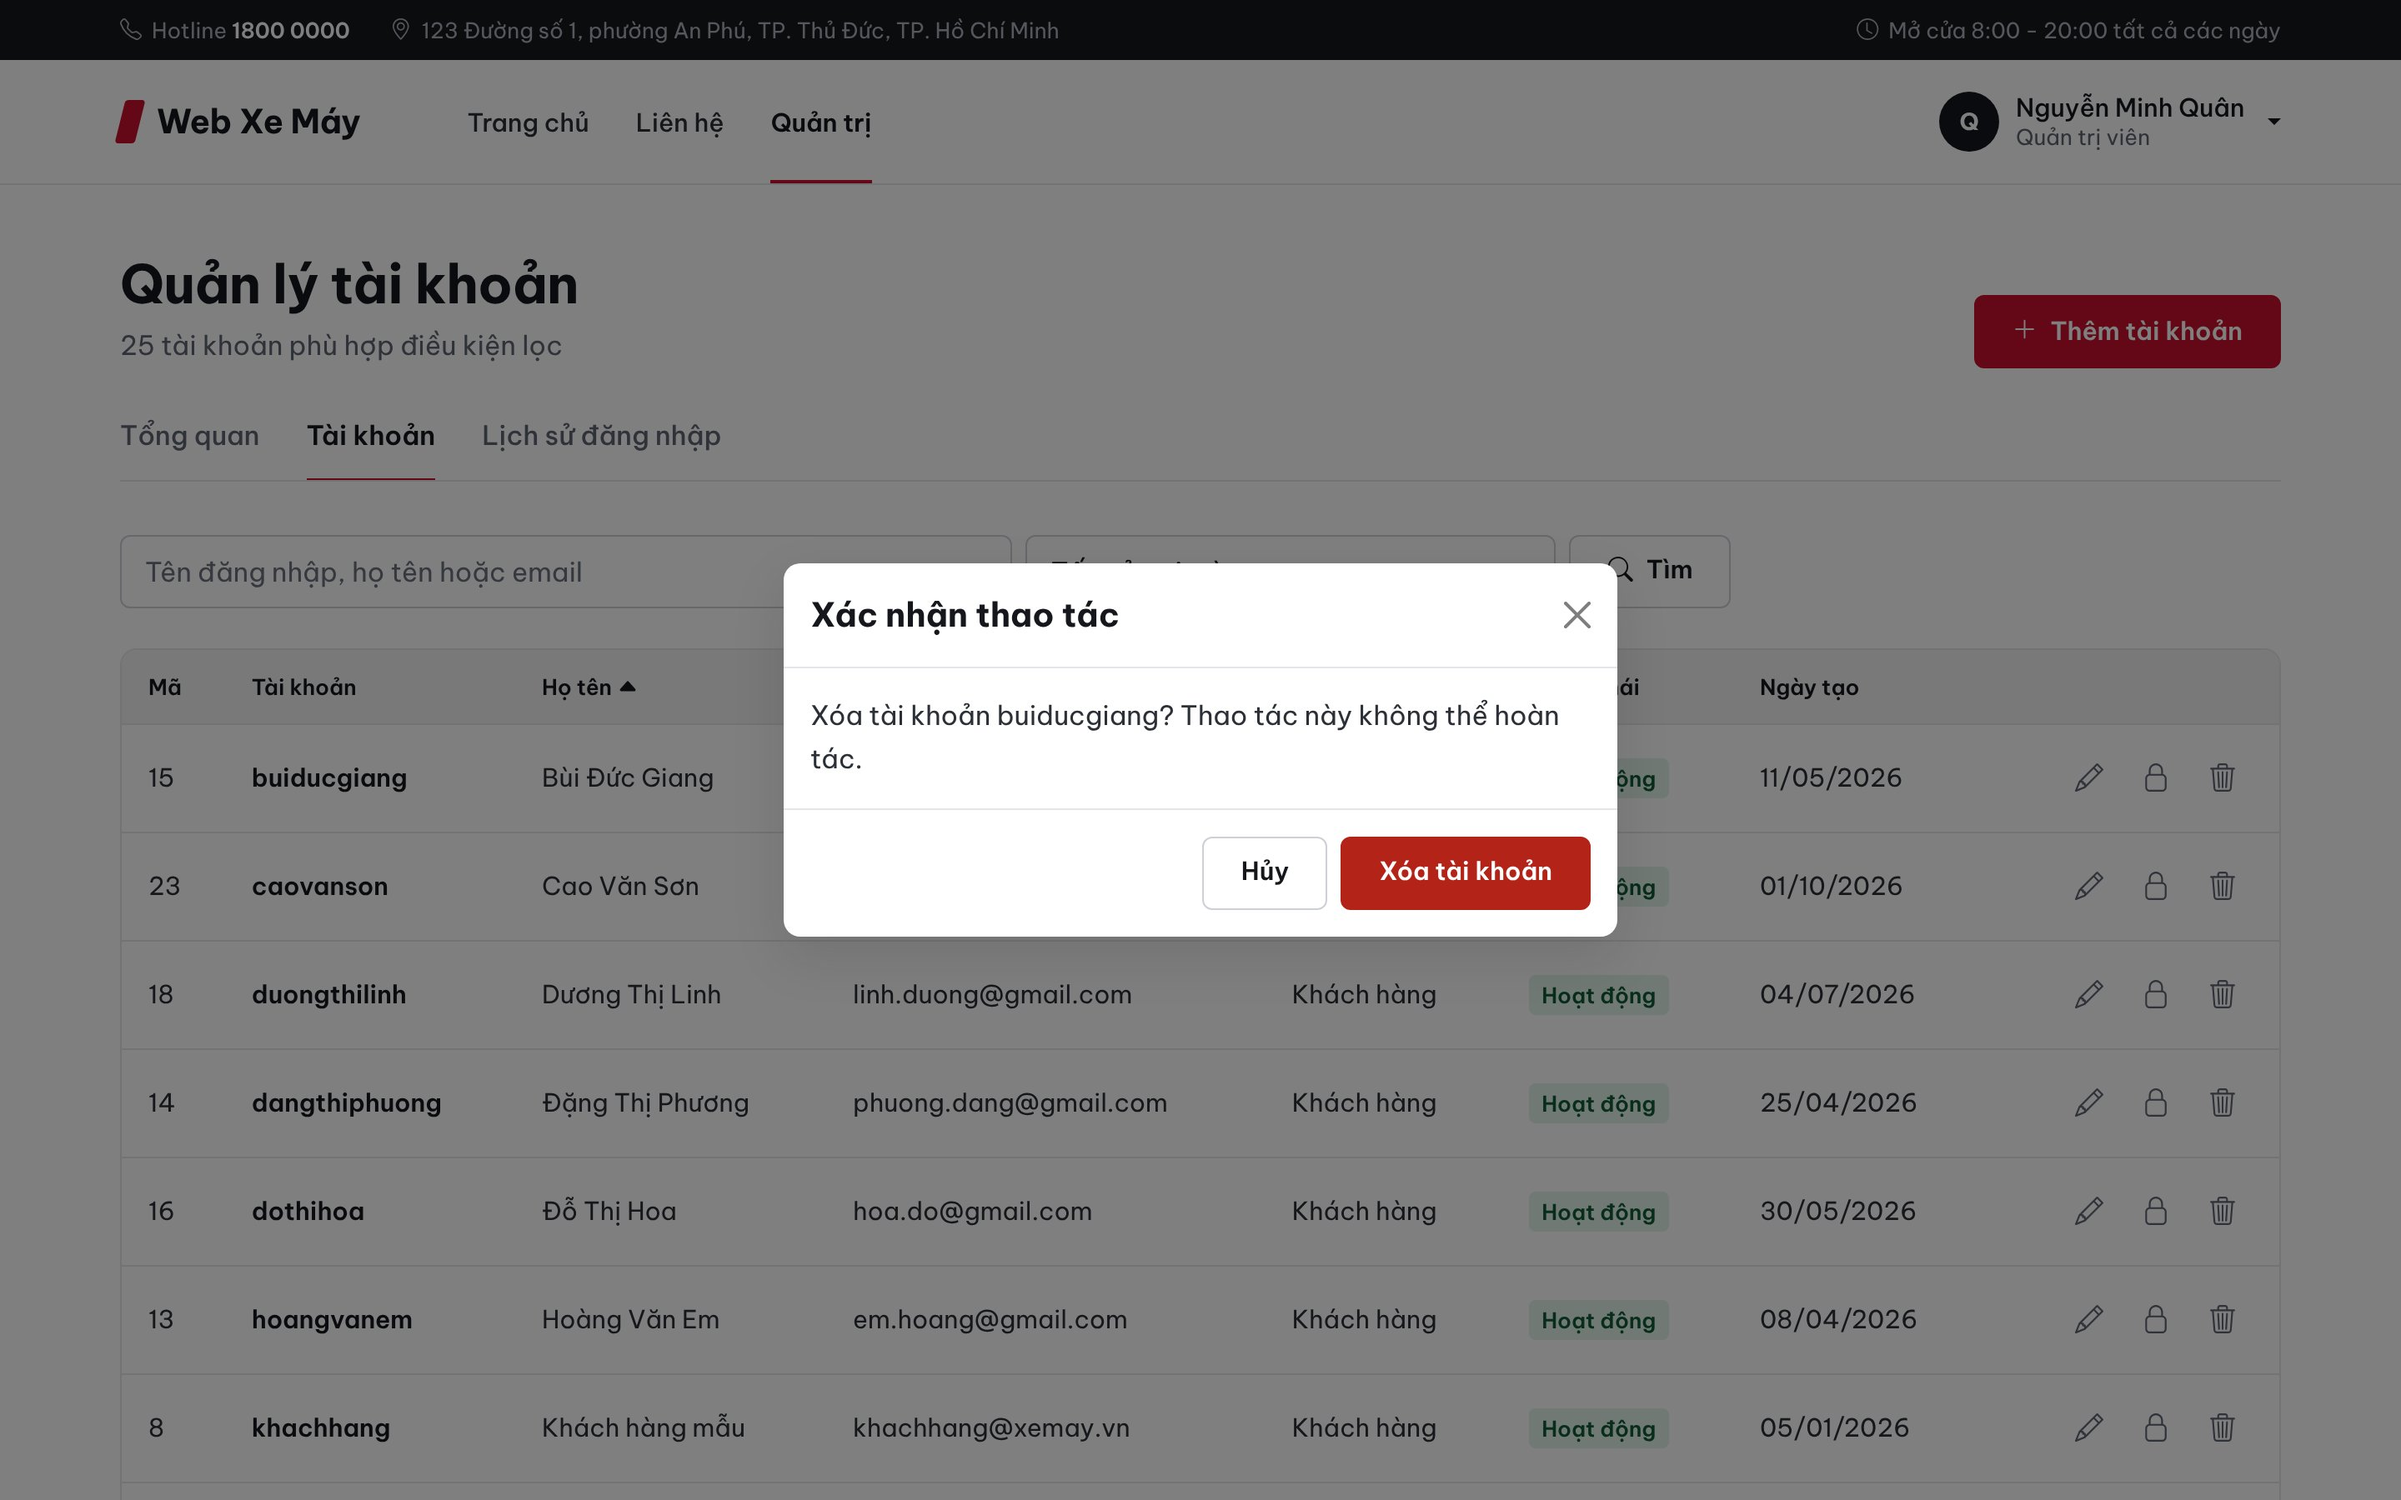
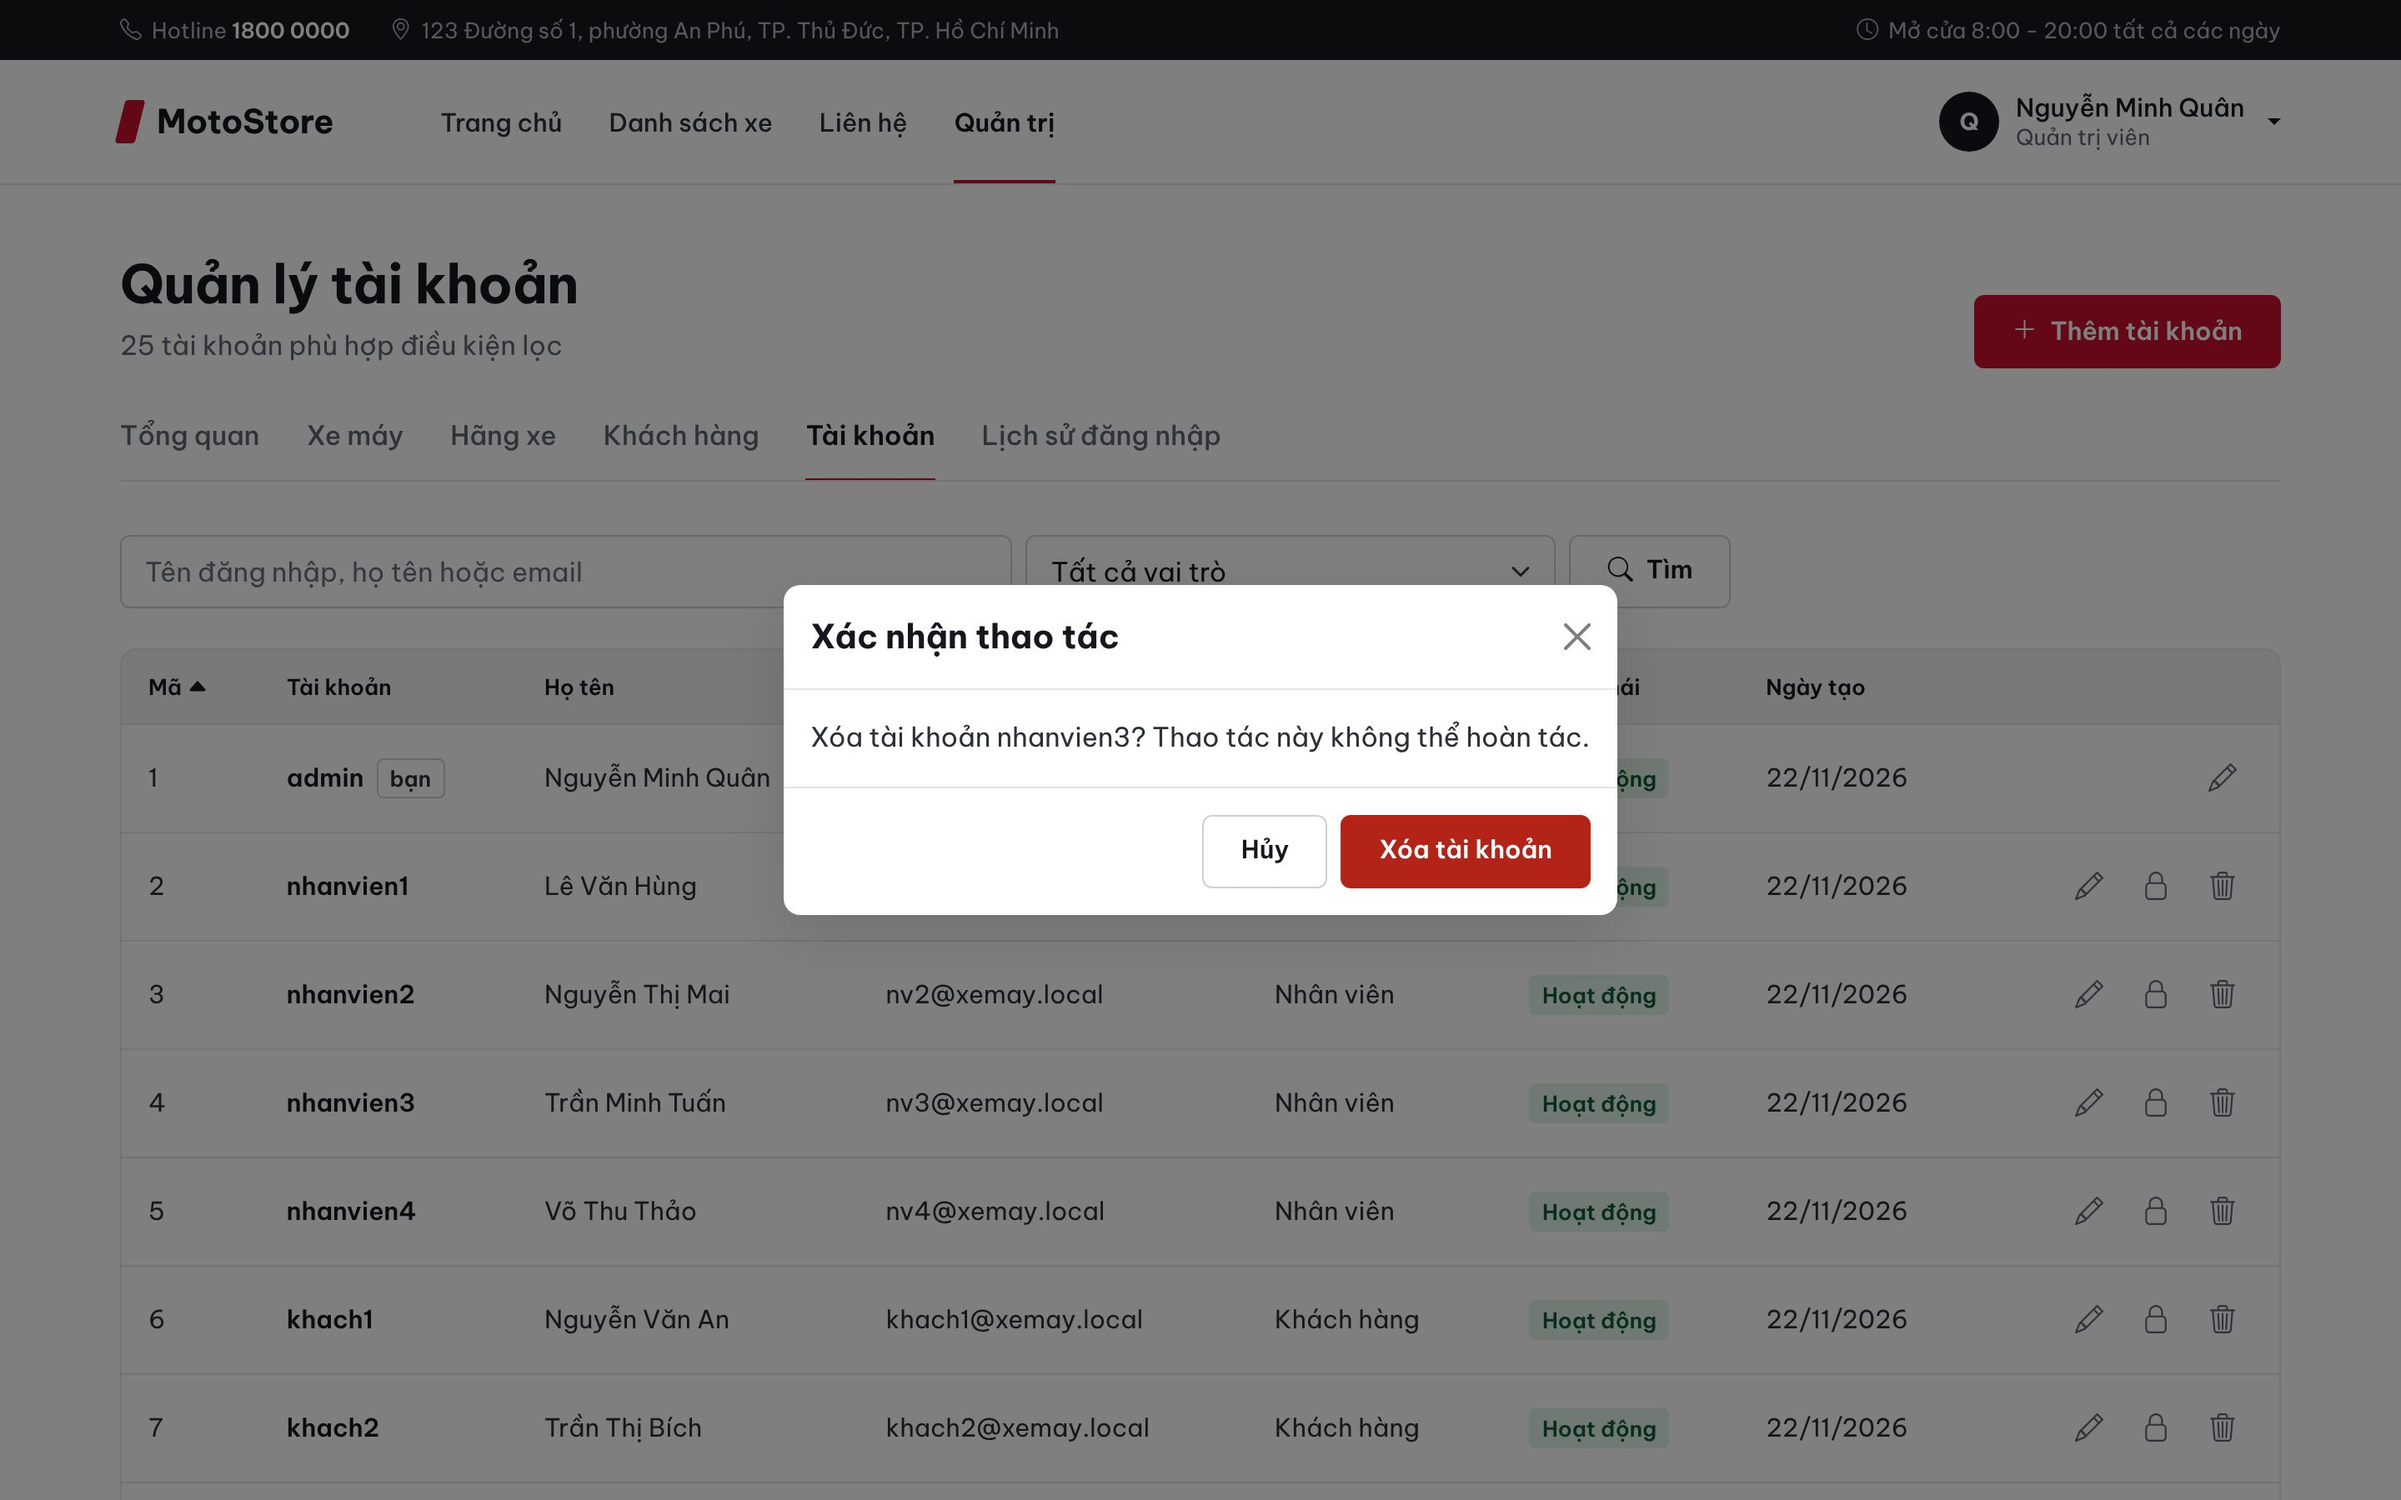
Cập nhật tài liệu và ảnh chụp màn hình sau tích hợp lần 2
- bao-cao-tich-hop.md: thêm lần 2 (đã nhận gì, phân công sau lần 2, 13 lỗi phát hiện khi ghép, quyết định khi ghép), việc còn lại
- thiet-ke-dong-thoi-va-mang.md: đặt hàng khóa giỏ trước, khóa xe sau; lỗi treo do khóa khoảng chỉ mục trên SQL Server
- kiem-thu.md: 73 bài tự động; kịch bản giỏ hàng, đặt hàng, hai khách cùng đặt xe cuối; bảng GD01-GD18 của thành viên 2 đã chạy
- huong-dan-tich-hop.md: phần đã có của giỏ hàng, đặt hàng; cách làm xác nhận, hủy đơn, hóa đơn khi kho đã trừ lúc đặt
- README, quy chuẩn giao diện: tên MotoStore, trạng thái từng thành viên, chức năng mới
- Chụp lại 23 ảnh (tên cửa hàng, header mới) và thêm 7 ảnh trang khách, giỏ hàng, đặt hàng

diff --git a/docs/thiet-ke-dong-thoi-va-mang.md b/docs/thiet-ke-dong-thoi-va-mang.md
@@ -71,7 +71,8 @@ nhìn log là biết đoạn mã nào đang chạy trên luồng nào.
 
 | Tài nguyên dùng chung | Ai cùng truy cập | Nếu không đồng bộ | Cách đồng bộ |
 |---|---|---|---|
-| Cột `SoLuong` của bảng `XE_MAY` | Luồng Tomcat (đặt hàng, nhập kho trên web), luồng `kho-client-N` (nhập/xuất kho), procedure `sp_XacNhanDonHang` | Mất cập nhật, bán vượt số xe đang có | **Khóa bi quan JPA** `PESSIMISTIC_WRITE` (`TonKhoService`) |
+| Cột `SoLuong` của bảng `XE_MAY` | Luồng Tomcat (khách đặt hàng, nhân viên nhập kho trên web), luồng `kho-client-N` (nhập/xuất kho) | Mất cập nhật, bán vượt số xe đang có | **Khóa bi quan JPA** `PESSIMISTIC_WRITE` (`TonKhoService`) |
+| Giỏ hàng của một khách (`GIO_HANG`, `CHI_TIET_GIO_HANG`) | Nhiều tab, nhiều lần bấm của cùng một khách: thêm, sửa, xóa, đặt hàng | Bấm "Đặt hàng" hai lần thành hai đơn, trừ kho hai lần | Khóa dòng giỏ trước mọi thao tác (`GioHangRepository.khoaTheoKhachHang`), mục 3.5 |
 | Cột `SoLuong` khi nhân viên sửa thông tin xe | Luồng sửa xe và luồng bán xe | Câu UPDATE của form sửa ghi lại số tồn cũ, xóa mất lần bán xen giữa | Form sửa không nhận số lượng + `@DynamicUpdate`: UPDATE chỉ ghi cột đã đổi (mục 3.4) |
 | Số điện thoại khách hàng | Hai người đăng ký, hoặc nhân viên nhập khách, cùng một số điện thoại | Hai hồ sơ trùng số | Chỉ mục `UNIQUE` của `KHACH_HANG.SoDienThoai` + bắt `DataIntegrityViolationException`; tài khoản và hồ sơ cùng một giao dịch |
 | Bộ đếm đăng nhập sai (bộ nhớ) | Luồng Tomcat và luồng Socket cùng ghi nhận lần sai | Mất lần đếm, kẻ dò mật khẩu thử được nhiều hơn 5 lần | `ConcurrentHashMap.compute` - đọc, tính, ghi là **nguyên tử** (`BoDemDangNhapSai`) |
@@ -118,9 +119,10 @@ thứ tự thì vòng chờ này không thể xảy ra. Bài kiểm thử `xuatN
 
 **Chốt chặn cuối:** cột `SoLuong` có ràng buộc `CK_XEMAY_SOLUONG CHECK(SoLuong >= 0)` trong script của nhóm.
 
-**Procedure của nhóm cũng an toàn khi chạy song song:** `sp_XacNhanDonHang` đọc các dòng `XE_MAY` của đơn bằng
-`WITH(UPDLOCK,HOLDLOCK)`, cùng loại khóa mà Hibernate dùng ở trên, nên một lần trừ kho từ Java và một lần xác nhận đơn
-bằng procedure trên cùng một xe sẽ chờ nhau chứ không chạy xen kẽ.
+**Procedure xác nhận đơn không trừ kho nữa:** kho đã bị trừ ngay lúc khách đặt hàng (mục 3.5). Bản gốc của
+`sp_XacNhanDonHang` trừ kho khi xác nhận, nếu giữ nguyên thì đơn đặt trên web bị trừ kho hai lần; phần trừ kho trong
+procedure đã được đặt trong chú thích (đánh dấu `[Tich hop]`). Procedure vẫn khóa dòng đơn hàng bằng `WITH(UPDLOCK,HOLDLOCK)`:
+hai nhân viên cùng xác nhận một đơn thì người sau nhận lỗi "Đơn hàng không ở trạng thái chờ xác nhận.", không có hai hóa đơn.
 
 ### 3.4 Sửa thông tin xe trong lúc có người mua (lỗi phát hiện khi tích hợp)
 
@@ -143,7 +145,58 @@ nhân viên đổi giá xe là `update XE_MAY set GiaBan=? where MaXe=?`, không
 `suaXeTrongLucCoNguoiMua` tái hiện đúng trình tự trên: có `@DynamicUpdate` thì còn 49 (đúng), bỏ đi thì còn 50 (sai).
 Muốn tăng tồn kho thì dùng nút **Nhập kho** trên trang sửa xe, đi qua `TonKhoService` như mọi thao tác kho khác.
 
-### 3.5 Tác vụ nền và tác vụ định kỳ
+### 3.5 Đặt hàng: khóa giỏ trước, khóa xe sau
+
+`DatHangService.datHang` làm mọi bước trong **một** giao dịch: khóa dòng giỏ của khách, khóa và trừ kho từng xe
+(`TonKhoService.xuatKhoNhieuXe`, mã xe tăng dần), tạo `DON_HANG` và `CHI_TIET_DON_HANG` theo giá bán hiện tại, làm trống giỏ.
+Thiếu hàng ở bất kỳ xe nào thì cả giao dịch bị hủy: không tạo đơn, không trừ xe nào, giỏ của khách còn nguyên.
+Đơn mới ở trạng thái `CHO_XAC_NHAN` và đã giữ xe cho khách (kho đã trừ); hủy đơn thì trả lại bằng `TonKhoService.nhapKho`.
+
+Hai khách cùng đặt chiếc xe cuối cùng (kiểm thử `haiKhachCungDatChiecXeCuoi`, và chạy thật trên giao diện, ảnh `28-hai-khach-cung-dat.jpg`):
+
+```mermaid
+sequenceDiagram
+    participant A as Khách A bấm "Đặt hàng"
+    participant G as Dòng giỏ của A, của B
+    participant X as Dòng xe Monster (còn 2)
+    participant B as Khách B bấm "Đặt hàng"
+    A->>G: khóa giỏ của A
+    B->>G: khóa giỏ của B (giỏ khác nhau, không phải chờ)
+    A->>X: khóa dòng xe, đọc 2 >= 2
+    B->>X: khóa dòng xe
+    Note over B: phải CHỜ vì A đang giữ khóa
+    A->>A: trừ kho còn 0, tạo đơn, làm trống giỏ, COMMIT
+    X-->>B: được khóa, đọc số MỚI: 0
+    B->>B: 0 < 2, HetHangException, ROLLBACK: không có đơn, giỏ của B còn nguyên
+```
+
+Một khách bấm "Đặt hàng" hai lần liên tiếp (hoặc đặt ở hai tab): lần sau chờ khóa dòng giỏ, đến lượt thì giỏ đã trống, nhận
+"Giỏ hàng đang trống." (kiểm thử `motKhachDatHaiLanCungLuc`: một đơn, kho chỉ trừ một lần).
+
+**Thứ tự khóa chung để không deadlock:** giao dịch nào cần cả giỏ và kho thì khóa giỏ trước, các xe sau (theo mã tăng dần).
+Thêm, sửa, xóa trong giỏ chỉ khóa giỏ; nhập/xuất kho từ client và trang quản trị chỉ khóa xe. Không giao dịch nào giữ khóa xe
+rồi mới xin khóa giỏ, nên không thể có vòng chờ.
+
+**Lỗi treo phát hiện khi chạy trên SQL Server:** khách mới (chưa có dòng `GIO_HANG`) bấm "Thêm vào giỏ" lần đầu thì trang
+quay mãi không xong. Bản đầu tiên khóa giỏ trước (`SELECT ... WITH (UPDLOCK, HOLDLOCK, ROWLOCK) WHERE MaKhachHang = ?`), không
+thấy dòng nào thì tạo giỏ trong một giao dịch riêng (`REQUIRES_NEW`). Với `HOLDLOCK`, khi dòng chưa tồn tại SQL Server khóa cả
+**khoảng** chỉ mục nơi dòng đó sẽ nằm, nên lệnh INSERT của giao dịch riêng phải chờ giao dịch ngoài, trong khi giao dịch ngoài
+lại đang chờ giao dịch riêng chạy xong. SQL Server không nhận ra đây là deadlock vì một đầu của vòng chờ nằm trong Java.
+Lúc treo, `sys.dm_tran_locks` cho thấy đúng như vậy:
+
+```
+request_session_id resource_type request_mode request_status
+60                 KEY           RangeS-U     GRANT     -- giao dịch ngoài: khóa khoảng chỉ mục
+59                 KEY           RangeI-N     WAIT      -- giao dịch riêng: INSERT GIO_HANG đang chờ
+```
+
+Kiểm thử trên H2 không bắt được lỗi này vì H2 không khóa khoảng chỉ mục. Cách sửa (`GioHangService.khoaGio`): kiểm tra giỏ
+bằng câu đọc thường (không khóa), chưa có thì tạo giỏ trong giao dịch riêng **trước**, sau đó mới khóa dòng giỏ đã tồn tại.
+Hai yêu cầu cùng tạo giỏ cho một khách thì ràng buộc `UNIQUE` của `GIO_HANG.MaKhachHang` chặn lần chèn thứ hai
+(log có dòng `Violation of UNIQUE KEY constraint` của Hibernate), yêu cầu đó dùng luôn giỏ vừa tạo. Sau khi sửa: khách mới thêm
+xe lần đầu mất khoảng 0,3 giây; ba tab cùng thêm xe lần đầu tạo đúng một giỏ có ba dòng; 73/73 bài kiểm thử đạt trên SQL Server 2025.
+
+### 3.6 Tác vụ nền và tác vụ định kỳ
 
 | Tác vụ | Cơ chế | Lịch chạy | Lớp |
 |---|---|---|---|

diff --git a/docs/quy-chuan-giao-dien.md b/docs/quy-chuan-giao-dien.md
@@ -1,15 +1,19 @@
-# Quy chuẩn giao diện - Web Xe Máy
+# Quy chuẩn giao diện - MotoStore
 
 Tài liệu này là **quy chuẩn giao diện duy nhất** của cả nhóm. Thành viên nào làm trang mới cũng đọc tài liệu này trước.
 Các giá trị gốc bên dưới (màu, chữ, bo góc, khoảng cách) đã được cài sẵn trong
 `web/src/main/resources/static/css/theme.css` dưới dạng biến CSS và lớp Bootstrap, nên khi làm trang chỉ cần
 **dùng lớp có sẵn, không tự đặt màu hay font mới**.
 
-> Tên cửa hàng ("Web Xe Máy"), hotline, địa chỉ đổi ở một chỗ duy nhất (hotline, địa chỉ hiện là dữ liệu tạm): `web/src/main/resources/messages.properties`.
+> Tên cửa hàng ("MotoStore"), hotline, địa chỉ đổi ở một chỗ duy nhất (hotline, địa chỉ hiện là dữ liệu tạm): `web/src/main/resources/messages.properties`.
+>
+> Các trang của khách (trang chủ, danh sách xe, chi tiết xe, giỏ hàng) do thành viên 2 làm trên cùng nền này, thêm các lớp riêng
+> trong `static/css/motostore-frontend.css` (thẻ xe `.the-xe-khach`, khung ảnh `.anh-xe-khach`, khung chưa có ảnh `.anh-trong`,
+> các lớp `moto-*`). File này nạp sau `theme.css` trong bố cục chung; trang mới cho khách dùng lại các lớp đó.
 
 ## Tổng quan
 
-Web Xe Máy là website của một đại lý xe máy chính hãng: khách vào web để **xem xe, so giá, đặt mua**, nhân viên vào để quản lý.
+MotoStore là website của một đại lý xe máy chính hãng: khách vào web để **xem xe, so giá, đặt mua**, nhân viên vào để quản lý.
 Giao diện phải gợi cảm giác của một showroom sáng sủa, ngăn nắp và nói thật:
 
 - **Sáng và sạch.** Nền trắng, vùng phụ màu xám đá rất nhạt; không nền kem, không nền tối toàn trang.
@@ -179,7 +183,8 @@ Khi làm một trang mới:
 
 1. Dùng bố cục chung: `th:replace="~{fragments/layout :: trang(~{::title}, ~{::section})}"` (xem `docs/huong-dan-tich-hop.md`).
 2. Dùng lớp Bootstrap và lớp trong `theme.css`; không viết `style=""` với màu hay font.
-3. Trang danh sách xe: lưới `row g-4` 3 cột trên máy tính, 2 cột trên máy tính bảng, 1 cột trên điện thoại, mỗi ô là `.the-xe`.
+3. Trang danh sách xe: lưới `row g-4` 3 cột trên máy tính, 2 cột trên máy tính bảng, 1 cột trên điện thoại, mỗi ô là một thẻ xe
+   (trang của khách dùng mảnh `fragments/the-xe :: theXe(xe)` của thành viên 2).
 4. Trang chi tiết xe: ảnh lớn bên trái (`col-lg-7`), bên phải tên xe (h1), giá (`.gia`), lựa chọn màu, nút Đặt mua.
 5. Xong thì chụp màn hình rộng 1280 px và 390 px, đối chiếu mục "Không" ở trên.
 
